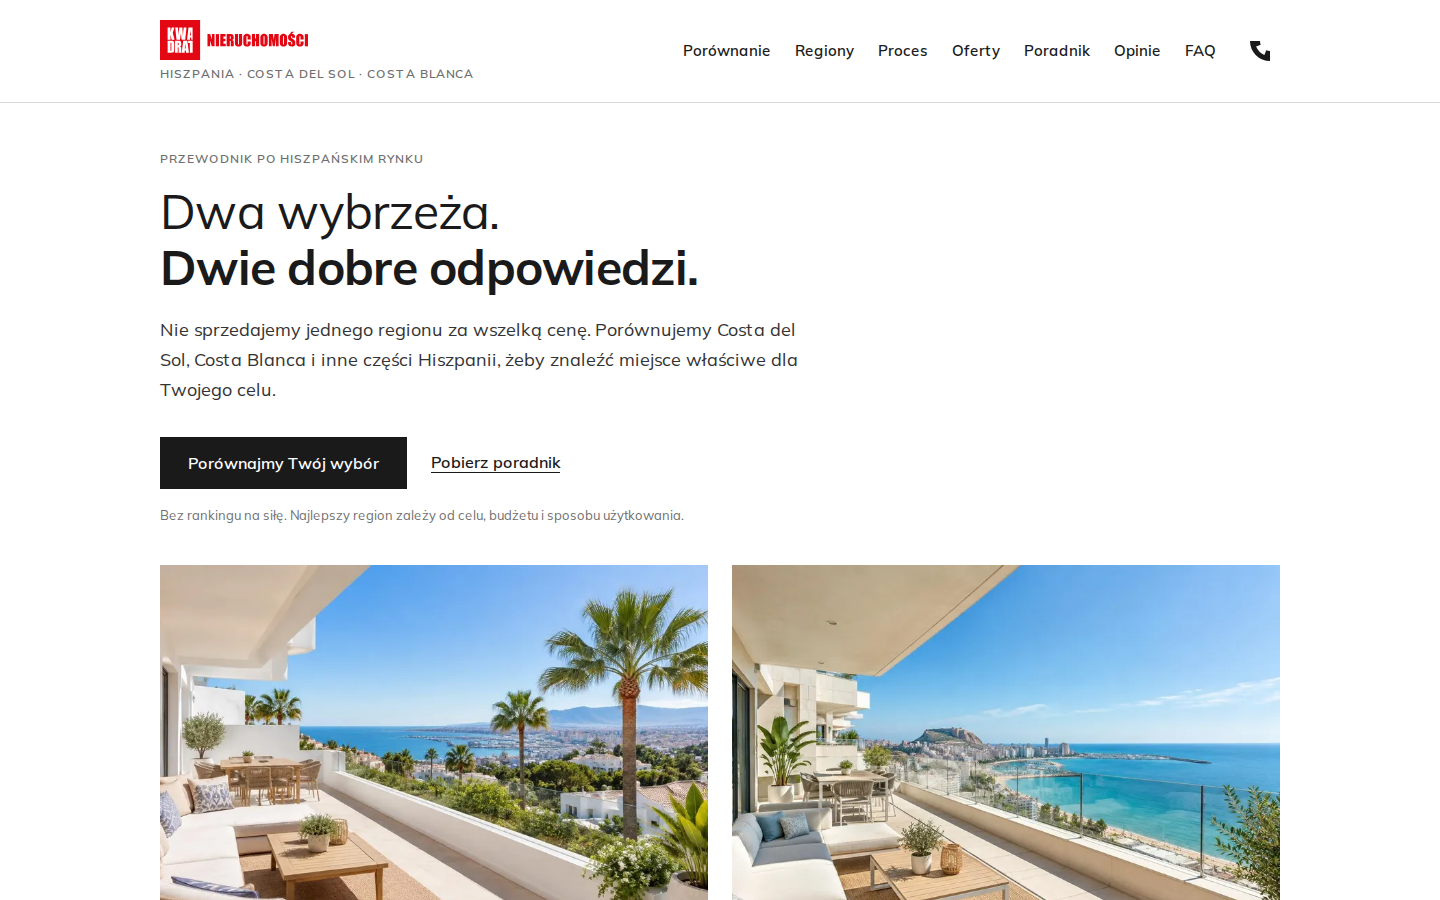
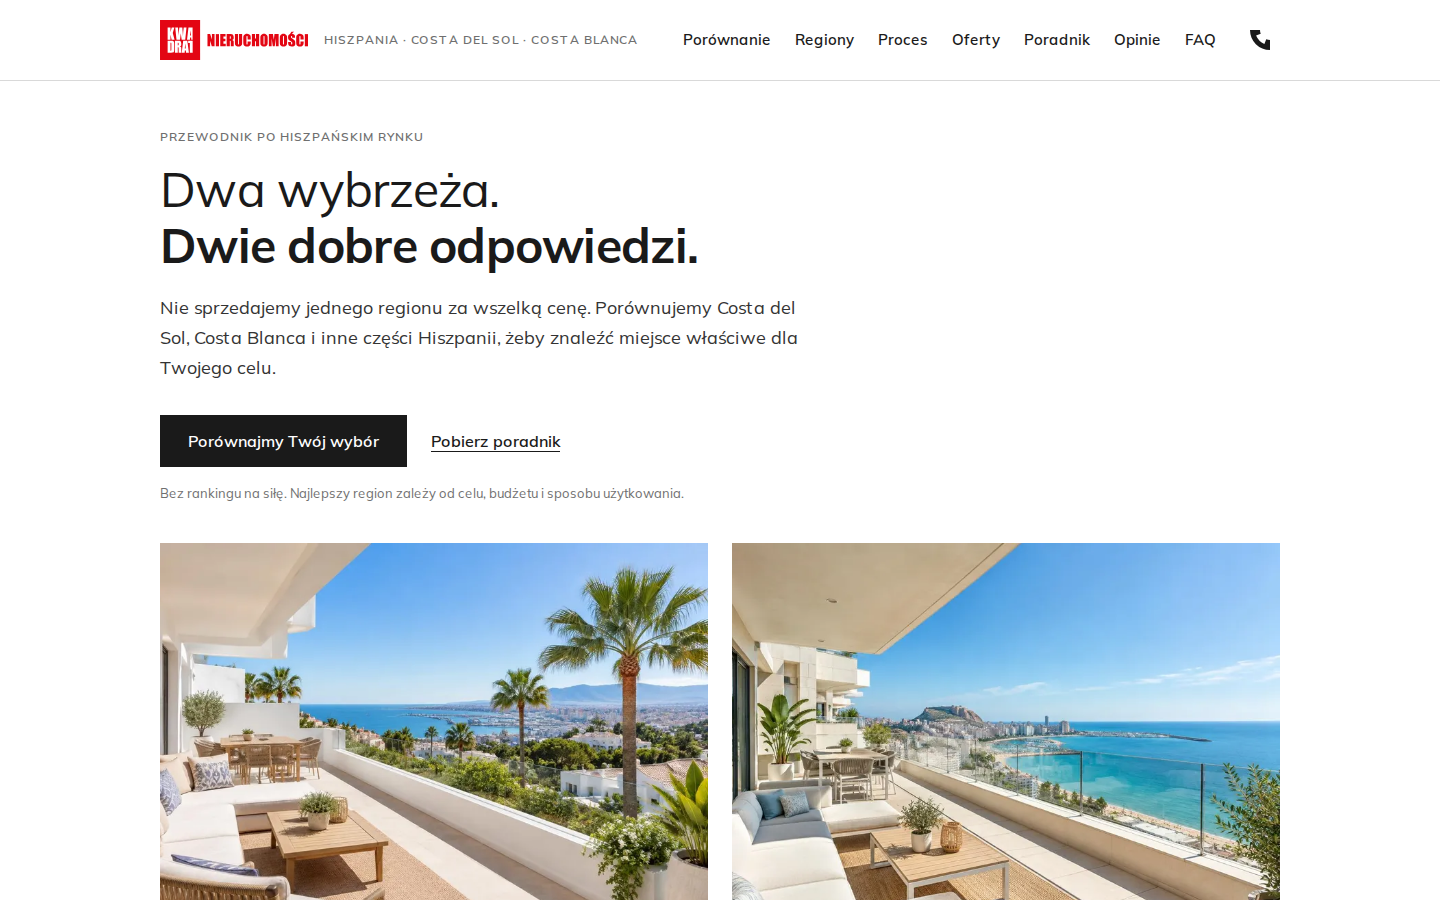
Nagłówek: etykieta „Hiszpania · Costa del Sol · Costa Blanca” obok lockupu
- Etykieta stoi w jednej linii obok lockupu (odstęp 16px, wyśrodkowana
  w pionie), nie pod logo (prośba Idziego 5.10.2026). Nagłówek ma znowu
  jeden rząd: 81px zamiast 103px na komputerze i tablecie.
- Poniżej 768px etykiety nie ma: obok lockupu, piktogramu i „Menu”
  brakuje miejsca. Nagłówek na telefonie: 73px zamiast 95px.
- Menu od 1200px nadal w jednym rzędzie (zapas 21px), bez przewijania
  w bok od 320px. CLAUDE.md i zrzuty ekranu zaktualizowane.

Claude-Session: https://claude.ai/code/session_014JYpXKEVwEFgyeoeaQ5252

Changed region(s): [[0.0938, 0.1244, 0.9062, 1.0], [0.0938, 0.0311, 0.4375, 0.0933], [0.4688, 0.0311, 0.9062, 0.0622]]

diff --git a/CLAUDE.md b/CLAUDE.md
@@ -69,7 +69,7 @@ Cyfry tabelaryczne wszędzie. Pogrubienie w tekście (700, ink) tylko dla kluczo
 ## Komponenty
 
 - Etykieta sekcji: `label` nad h2, odstęp 16px.
-- Nagłówek: lockup 148 × 40px, pod nim `label` „Hiszpania · Costa del Sol · Costa Blanca”; menu 15px 600 ink (hover: podkreślenie); na końcu sam piktogram słuchawki 20px w polu 40 × 40px (link `tel:`, `aria-label` „Zadzwoń +48 505 085 001”, hover: linia 1px pod piktogramem). Numer w nagłówku się nie wyświetla. Piktogram: `src/components/ui/PhoneIcon.astro`, własny inline SVG w `currentColor`, ostre krawędzie, `aria-hidden`. Pod paskiem linia 1px `--line`, nie sticky. Poniżej 1200px linki pod tekstowym przyciskiem „Menu”, piktogram obok, etykieta w osobnym wierszu. Kolejność w HTML to kolejność tabulacji: lockup, piktogram (do 1199px), „Menu”, linki, piktogram (od 1200px; widoczny zawsze jeden). Tab po otwarciu menu wchodzi w linki, Escape zamyka menu i wraca na przycisk, bez JS menu stoi otwarte. Lockup zmniejsza się proporcjonalnie dopiero poniżej 320px.
+- Nagłówek: lockup 148 × 40px, obok niego w jednej linii (odstęp 16px, wyśrodkowany w pionie) `label` „Hiszpania · Costa del Sol · Costa Blanca”, nigdy pod logo; poniżej 768px etykiety nie ma (brak miejsca); menu 15px 600 ink (hover: podkreślenie); na końcu sam piktogram słuchawki 20px w polu 40 × 40px (link `tel:`, `aria-label` „Zadzwoń +48 505 085 001”, hover: linia 1px pod piktogramem). Numer w nagłówku się nie wyświetla. Piktogram: `src/components/ui/PhoneIcon.astro`, własny inline SVG w `currentColor`, ostre krawędzie, `aria-hidden`. Pod paskiem linia 1px `--line`, nie sticky. Poniżej 1200px linki pod tekstowym przyciskiem „Menu”, piktogram obok. Kolejność w HTML to kolejność tabulacji: lockup, piktogram (do 1199px), „Menu”, linki, piktogram (od 1200px; widoczny zawsze jeden). Tab po otwarciu menu wchodzi w linki, Escape zamyka menu i wraca na przycisk, bez JS menu stoi otwarte. Lockup zmniejsza się proporcjonalnie dopiero poniżej 320px.
 - Hero (WebHero): `label`, h1, lead, jeden przycisk główny i jeden link drugi, `small`. Pod spodem dwa kierunki 6+6 (na telefonie jeden pod drugim), na końcu pasek KPI. Zdjęcia zawsze pod przyciskami.
 - Kierunek: zdjęcie z `small` „Zdjęcie poglądowe” (`PHOTO_NOTE`), linia 1px ink, `label` KIERUNEK 01, tytuł w stylu h3 (h2 bez kwadracika), akapit, link drugi na dole kolumny (linki obu kierunków na jednej linii).
 - Pasek KPI (WebStats): 3 do 4 kafelków w subgridzie (wartości na jednej wysokości): linia ink nad, `label`, wartość, `small`. Kafelek 1 to ocena Google z `GOOGLE_RATING`, `GOOGLE_REVIEWS`, `GOOGLE_PROFILE_NAME`, `GOOGLE_READ_DATE` i `GOOGLE_REVIEWS_URL`; gdy któreś pole jest puste, nie renderuje się ani on, ani kafelek oceny w Opiniach (link zmieniaj, nie usuwaj). Wartości wpisuje Idzi, nigdy Claude. Pozostałe kafelki: wartości tekstowe tylko z usług i regionów opisanych na stronie, bez nowych obietnic i liczby oddziałów. Tablet i telefon: dwie kolumny.
@@ -172,4 +172,4 @@ Zatwierdzone copy jest w `site.ts`. `docs/copy.md` to zapis najstarszej wersji, 
 
 - 3.10.2026: oryginałem jest nowa wersja live; Web3Forms; oferty i ceny widoczne; telefon +48 505 085 001; zgoda pod kontaktem z poprzedniej wersji strony; zdjęcia hero i ofert od dewelopera; prawnik potwierdził odpowiedź o prawie zakupu.
 - 4.10.2026: system Kwadrat v2 z warstwą www; polityka prywatności na bazie kwadrat.io/rodo; biuro@kwadrat.io w stopce.
-- 5.10.2026: zdjęcie Piotra i Ani w Kontakcie. Zgodność z live (11 punktów): meta jak na live, pisownia Málaga, marka Kwadrat Nieruchomości, lockup z etykietą w nagłówku, dwa zdjęcia w hero i przycisk „Porównajmy Twój wybór”, sześć punktów Obsługi 360° w dwóch listach, bez noty o wierszu-kotwicy, REGON i sąd w stopce, jeden telefon bez bloku agenta, linki „Porozmawiajmy” w celach, brakujące zdjęcia dublowane na podglądzie. Piktogram telefonu zamiast słowa „Zadzwoń”, bez numeru w nagłówku.
+- 5.10.2026: zdjęcie Piotra i Ani w Kontakcie. Zgodność z live (11 punktów): meta jak na live, pisownia Málaga, marka Kwadrat Nieruchomości, lockup z etykietą w nagłówku, dwa zdjęcia w hero i przycisk „Porównajmy Twój wybór”, sześć punktów Obsługi 360° w dwóch listach, bez noty o wierszu-kotwicy, REGON i sąd w stopce, jeden telefon bez bloku agenta, linki „Porozmawiajmy” w celach, brakujące zdjęcia dublowane na podglądzie. Piktogram telefonu zamiast słowa „Zadzwoń”, bez numeru w nagłówku. Etykieta „Hiszpania · Costa del Sol · Costa Blanca” obok lockupu, nie pod nim.
